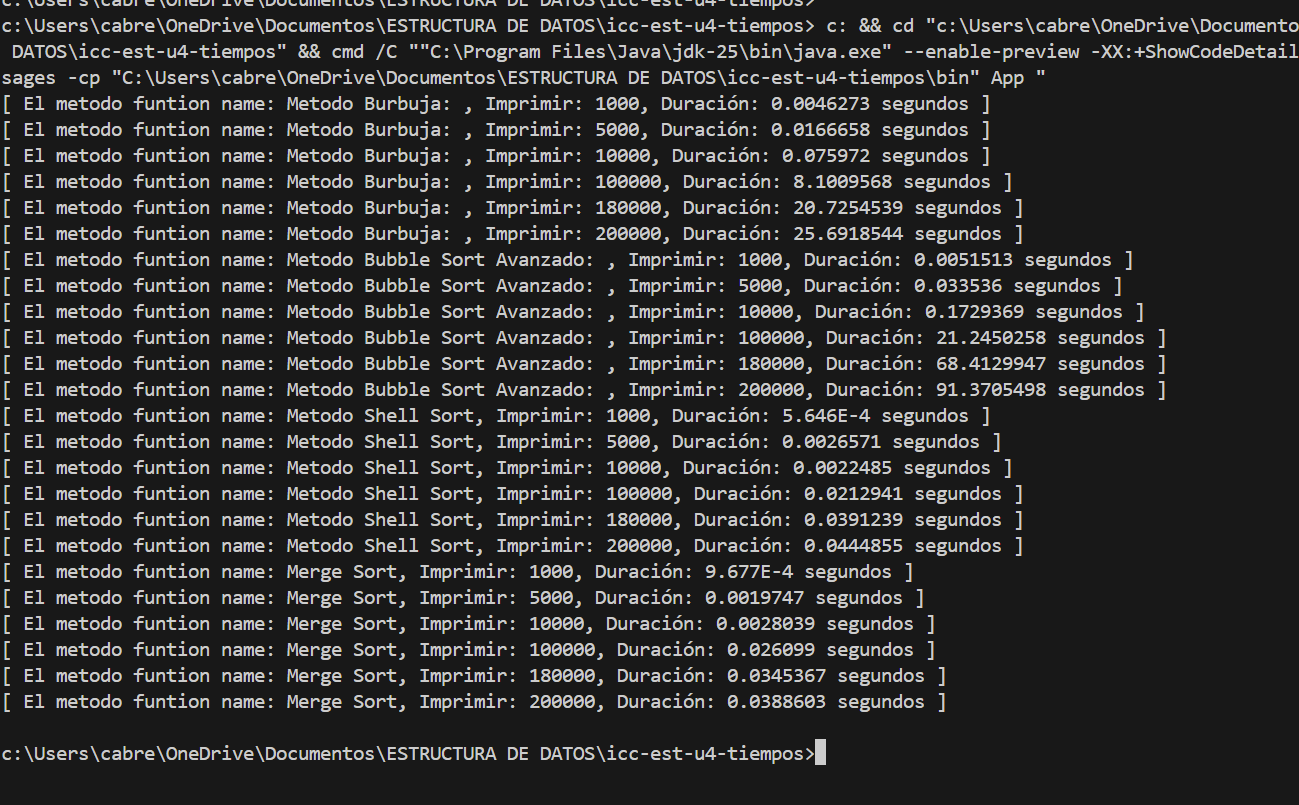
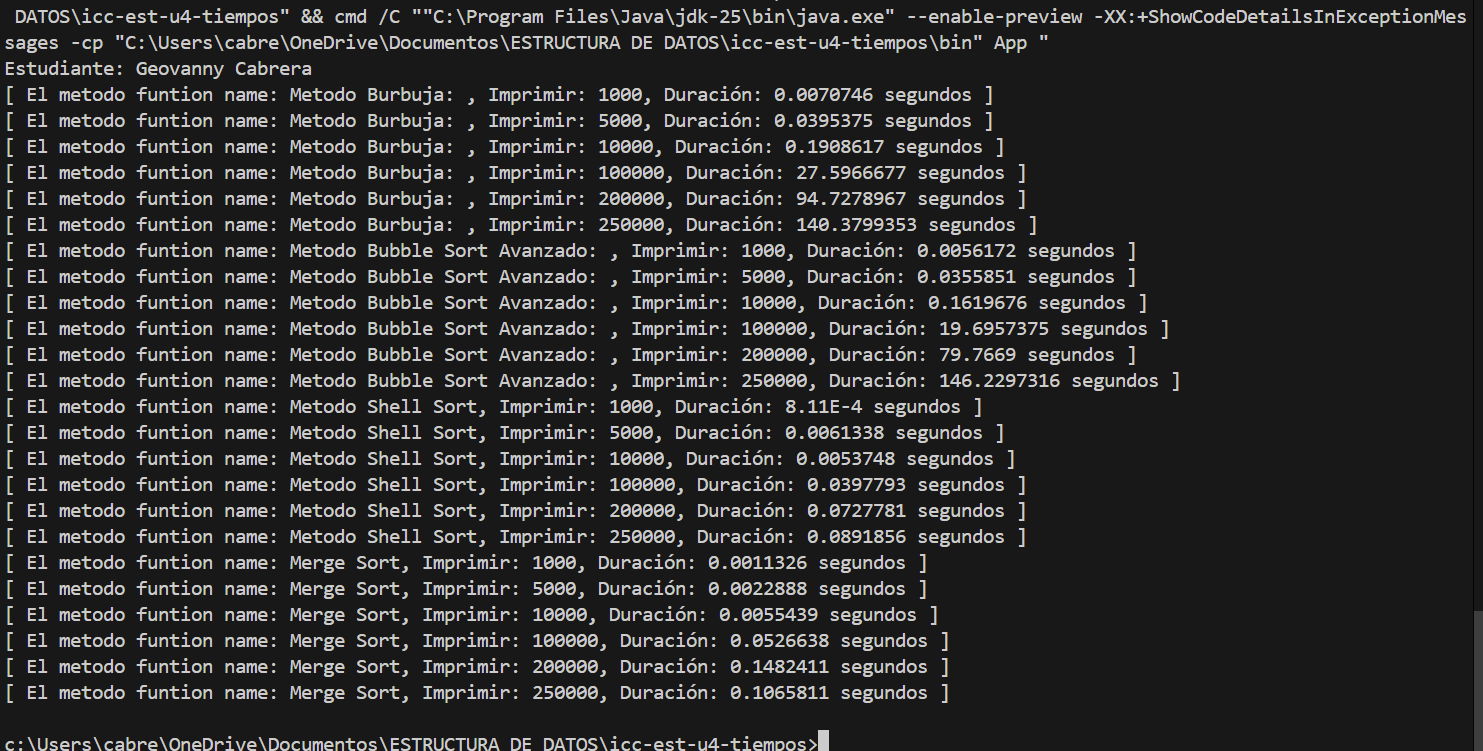
Tiempos BenchMarkin

diff --git a/src/App.java b/src/App.java
@@ -6,6 +6,7 @@ import models.Results;
 
 public class App {
     public static void main(String[] args) throws Exception {
+        System.out.println("Estudiante: Geovanny Cabrera");
         /*long inicio = System.nanoTime();
         for (int i = 0; i < 100000; i++) {
             String s = "Numero: " + i;
@@ -37,7 +38,7 @@ public class App {
         long fin_millis = System.currentTimeMillis();
         System.out.println("Tiempo transcurrido: " + (fin_millis - inicio_millis) + " nanosegundos");
         /* */
-        int[] originalArray = generate(200000);
+        int[] originalArray = generate(250000);
 
         int[] array1000 = new int[1000];
         System.arraycopy(originalArray, 0, array1000, 0, 1000);
@@ -51,11 +52,11 @@ public class App {
         int[] array100000 = new int[100000];
         System.arraycopy(originalArray, 0, array100000, 0, 100000);
 
-        int[] array180000 = new int[180000];
-        System.arraycopy(originalArray, 0, array180000, 0, 180000);
+        int[] array200000 = new int[200000];
+        System.arraycopy(originalArray, 0, array200000, 0, 200000);
 
 
-        int[][] arrays = {array1000, array5000, array10000, array100000, array180000, originalArray};
+        int[][] arrays = {array1000, array5000, array10000, array100000, array200000, originalArray};
         SortMethods sorter = new SortMethods();
         for(int[] array : arrays){
             int size = array.length;

diff --git a/src/controllers/SortMethods.java b/src/controllers/SortMethods.java
@@ -6,11 +6,11 @@ public class SortMethods {
     public void sortBubble(int[] numeros){
         int[] cp = Arrays.copyOf(numeros, numeros.length);
         for (int i = 0; i < cp.length; i++) {
-            for(int j = 0; j < cp.length; j++){
-                if(cp[i] > cp[j]){
-                    int temp = cp[i];
-                    cp[i] = cp[j];
-                    cp[j] = temp;
+            for(int j = 0; j < cp.length - 1; j++){
+                if(cp[j] > cp[j+1]){
+                    int temp = cp[j];
+                    cp[j] = cp[j+1];
+                    cp[j+1] = temp;
                 }
             }
         }
